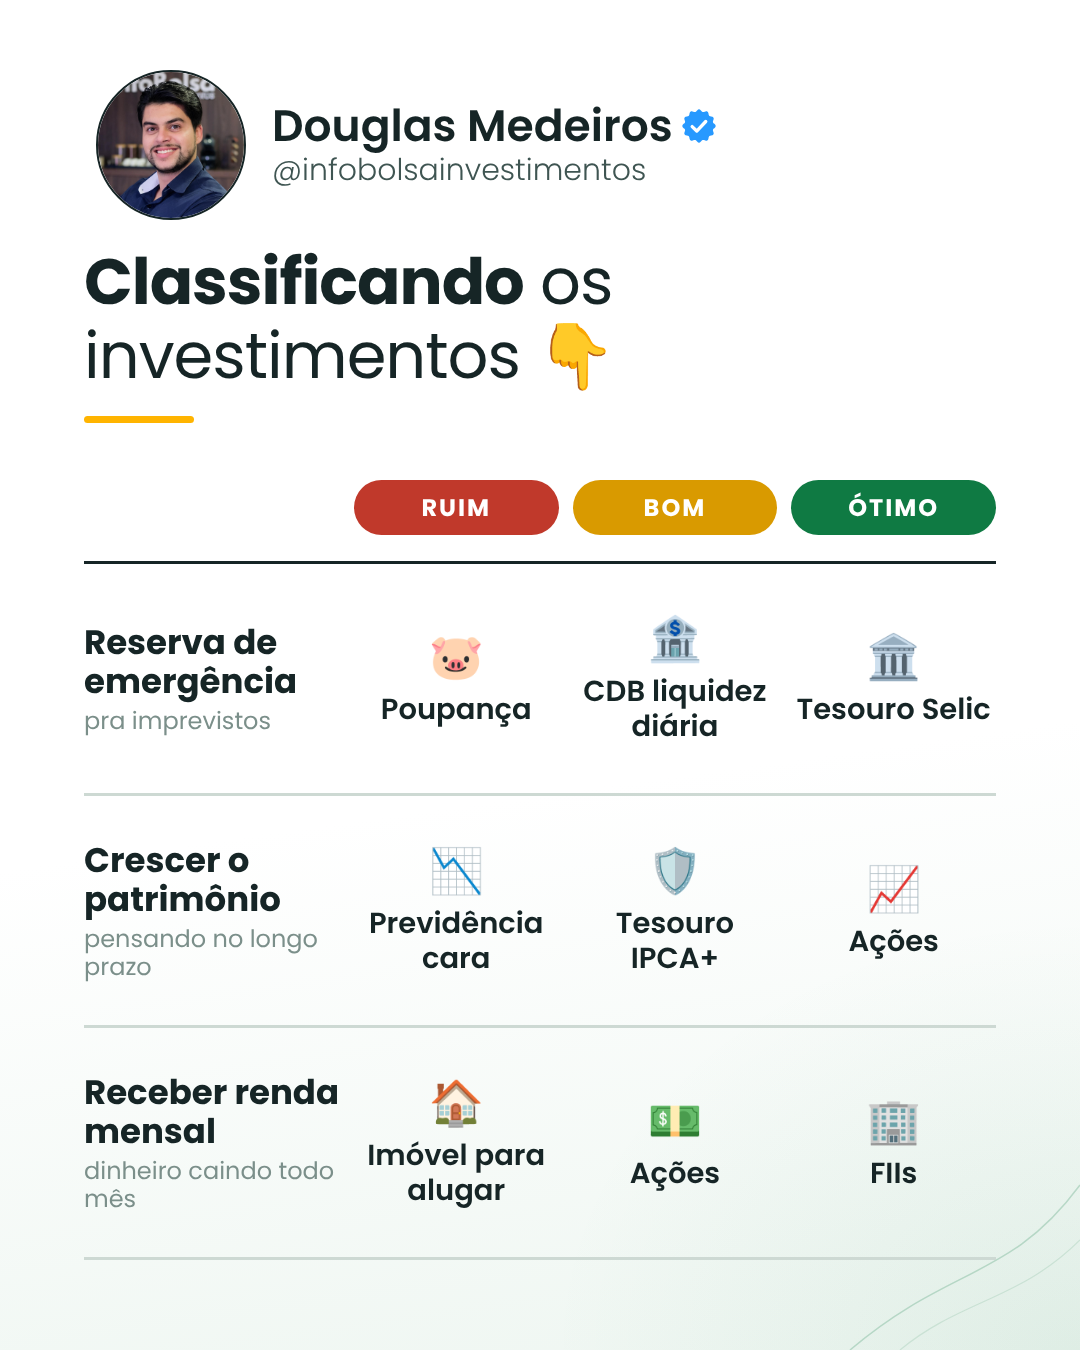
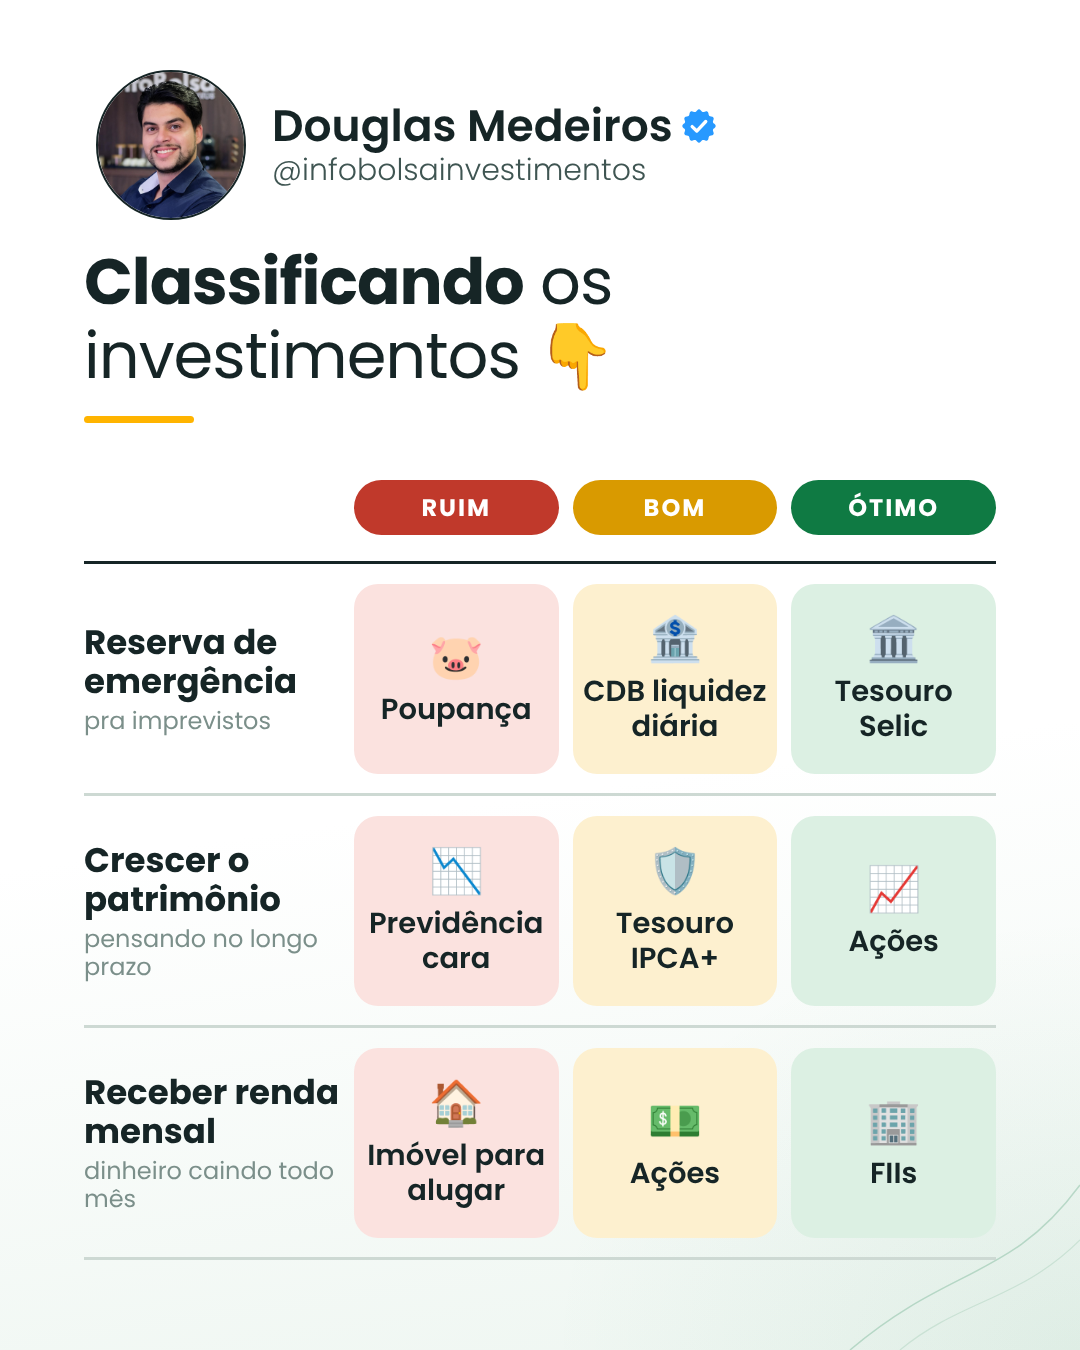
Classificando: fundo colorido claro por coluna
Claude-Session: https://claude.ai/code/session_01V4Ut9U2W4uPbxLAyJQKmJH

Changed region(s): [[0.3056, 0.4356, 0.9472, 0.7467], [0.3056, 0.7778, 0.7639, 0.9333]]

diff --git a/kit/gen_qua.py b/kit/gen_qua.py
@@ -81,7 +81,7 @@ CSS3 = """
 .cm .pl{font-weight:700;font-size:24px;letter-spacing:2px;color:#fff;border-radius:40px;padding:10px 0;text-align:center}
 .cm .ob{font-weight:700;font-size:34px;color:#162526;line-height:1.15}
 .cm .ob small{display:block;font-size:24px;font-weight:400;color:#7b8f8a;margin-top:6px}
-.cm .cit{display:block!important;font-weight:600;font-size:29px;color:#162526;text-align:center;line-height:1.2}
+.cm .cit{display:flex!important;flex-direction:column;align-items:center;justify-content:center;height:190px;border-radius:24px;padding:0 8px;font-weight:600;font-size:29px;color:#162526;text-align:center;line-height:1.2}
 .cm .cit i{display:block;font-style:normal;font-size:44px;margin-bottom:8px}
 """
 lbs = [("RUIM", "#c0392b"), ("BOM", "#d99a00"), ("ÓTIMO", "#0f7a43")]
@@ -91,7 +91,7 @@ OBJ = [("Reserva de emergência", "pra imprevistos", ["🐷", "🏦", "🏛"]
 bl = '<div class="r"><div></div>' + "".join(f'<div class="pl" style="background:{c}">{l}</div>' for l, c in lbs) + "</div>"
 for (t, its), (_, sub, ics) in zip(C, OBJ):
     bl += f'<div class="r"><div class="ob">{t}<small>{sub}</small></div>' + "".join(
-        f'<div class="cit"><i>{ic}</i>{x}</div>' for ic, x in zip(ics, its)) + "</div>"
+        f'<div class="cit" style="background:{bg}"><i>{ic}</i>{x}</div>' for ic, x, bg in zip(ics, its, ["#fbe2df", "#fdf0cf", "#dcf0e3"])) + "</div>"
 open("q3.html", "w").write(pag('<div class="t"><b>Classificando</b> os investimentos 👇</div>'
                                f'<div class="cm">{bl}</div>', 64, CSS3))
 
